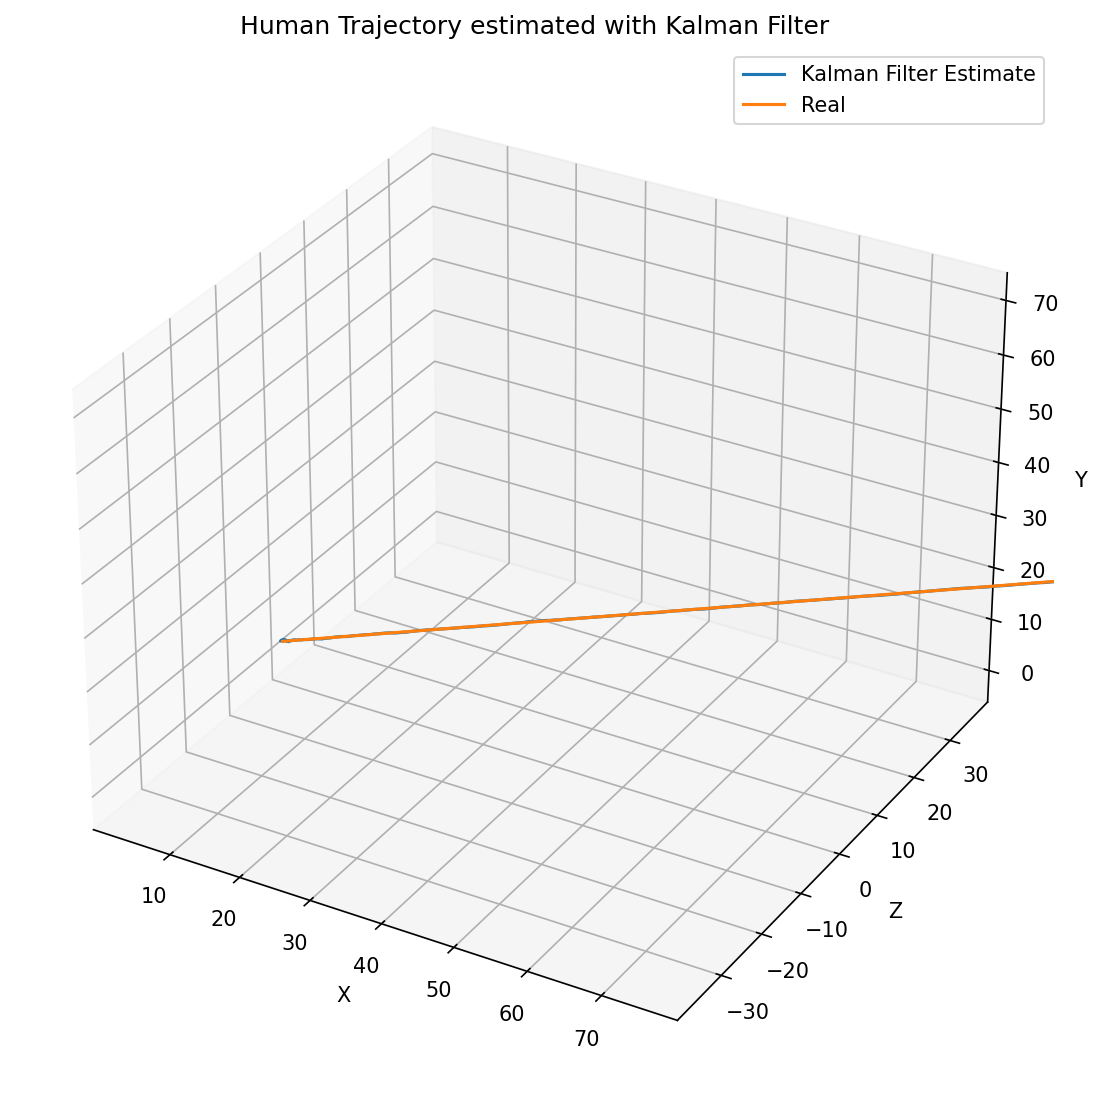
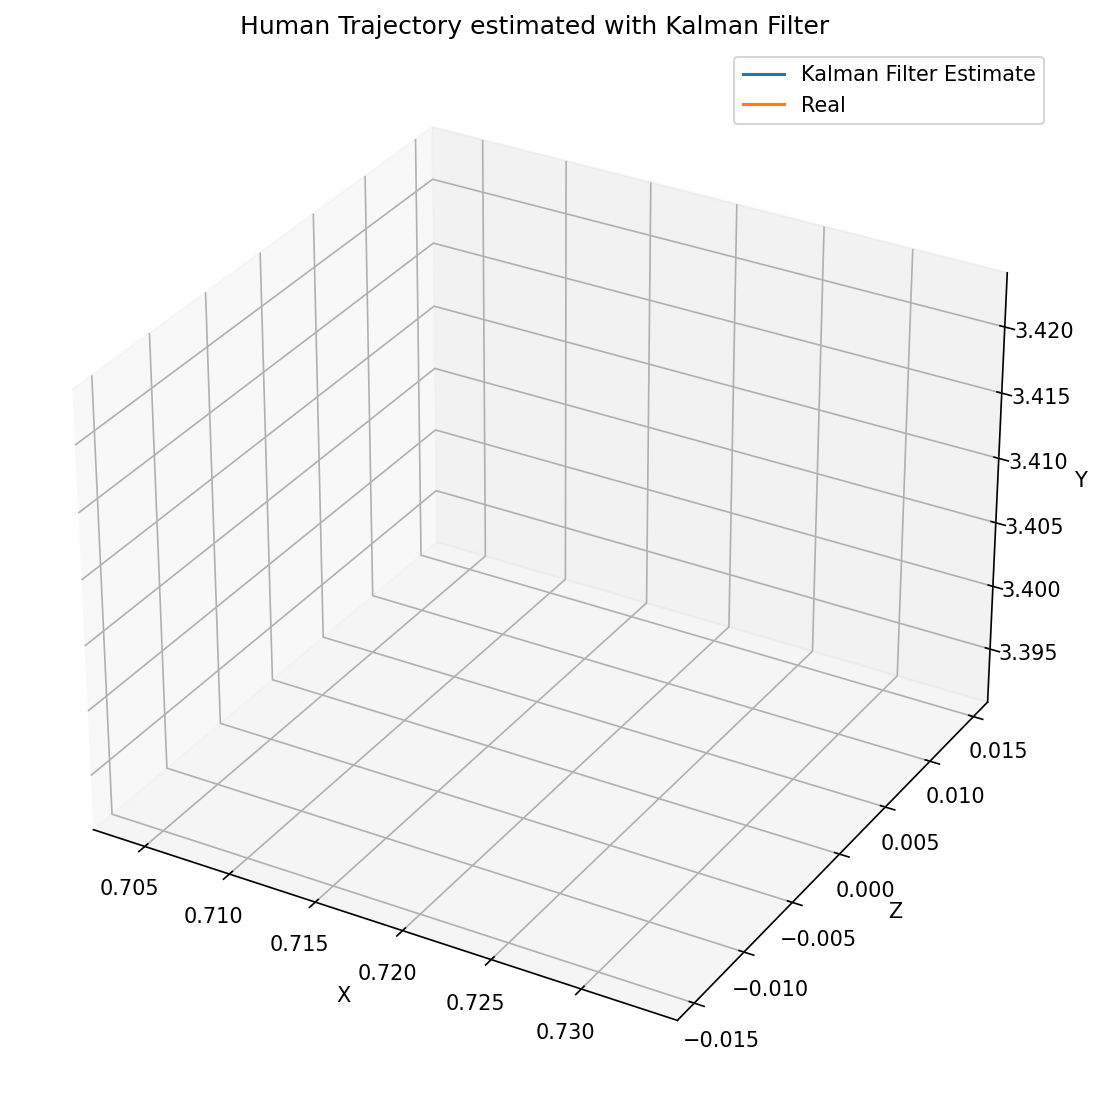
added marker array

diff --git a/test_catkin/src/testrobots/scripts/gauss_kf.py b/test_catkin/src/testrobots/scripts/gauss_kf.py
@@ -3,6 +3,8 @@
 
 #imports 
 import sys
+
+from cv2 import HuMoments
 import rospy
 from array import array
 from cmath import sqrt
@@ -11,6 +13,7 @@ from os import device_encoding
 from numpy import NaN, cov
 # import rospy
 import ros_numpy
+import visualization_msgs
 import matplotlib.pyplot as plt
 from matplotlib.patches import Polygon
 from matplotlib.collections import PatchCollection
@@ -31,7 +34,7 @@ from testrobots.msg import Velocity
 import matplotlib.pyplot as plt
 from mpl_toolkits.mplot3d import Axes3D
 from scipy.stats import norm
-from sympy import Symbol, Matrix
+from sympy import Add, Symbol, Matrix, im
 from sympy.interactive import printing
 from geometry_msgs.msg import Point, PointStamped, Point32
 import struct
@@ -201,9 +204,9 @@ class Detection(object):
             Human_Marker_cube.pose.orientation.y = 1.0
             Human_Marker_cube.pose.orientation.z = 0.0
             Human_Marker_cube.pose.orientation.w = 0.0
-            Human_Marker_cube.scale.x = 0.8
-            Human_Marker_cube.scale.y = 0.8
-            Human_Marker_cube.scale.z = 0.8
+            Human_Marker_cube.scale.x = 0.5
+            Human_Marker_cube.scale.y = 0.5
+            Human_Marker_cube.scale.z = 0.5
             Human_Marker_cube.color.a = 1.0
             Human_Marker_cube.color.r = 1.0
             Human_Marker_cube.color.g = 0.0
@@ -235,48 +238,43 @@ class Detection(object):
             # print("speed in x and z", vx, vz) 
 
 
-                    
-            # #publish velocity
-            # self.pub_vel_x.publish(vx)
-            # self.pub_vel_y.publish(vy)
-            # self.pub_vel_z.publish(vz)
-            
             # kalman filtering 
             xt,yt,zt,Xr,Yr,Zr = kal_fil(meanx,meany, meanz,vx,vy,vz, acc_x,acc_y,acc_z,time_diff)
             
-            for i in range(len(xt)):
-               
-                marker.header.frame_id = "camera_rgb_optical_frame"
-                marker.header.stamp = rospy.Time.now()
-                marker.ns = "basic_shapes"
-                marker.id = i
-                marker.type = 1
-                marker.pose.position.x =  xt[i]
-                marker.pose.position.y = yt[i]
-                marker.pose.position.z = zt[i]
-                marker.pose.orientation.x = 1.0
-                marker.pose.orientation.y = 1.0
-                marker.pose.orientation.z = 0.0
-                marker.pose.orientation.w = 0.0
-                marker.scale.x = 0.8
-                marker.scale.y = 0.8
-                marker.scale.z = 0.8
-                marker.color.a = 1.0
-                marker.color.r = 0.0
-                marker.color.g = 1.0
-                marker.color.b = 0.0
-                
-                Human_prediction.markers.append(marker)
-                                
-            self.human_pred.publish(Human_prediction)
-                
+            if np.mean(x) == NaN or np.mean(z) == NaN:
+                print("no human in view")
+                pass
+            else:
             
-           
-        
-        
- 
-            
-    
+                for i in range(len(xt)):
+                    
+                    marker.header.frame_id = "camera_rgb_optical_frame"
+                    marker.ns = "basic_shapes"
+                    marker.id = i
+                    marker.type = 1
+                    # marker.action = 0
+                    marker.pose.position.x =  xt[i]
+                    marker.pose.position.y = yt[i]
+                    marker.pose.position.z = zt[i]
+                    marker.pose.orientation.x = 1.0
+                    marker.pose.orientation.y = 1.0
+                    marker.pose.orientation.z = 0.0
+                    marker.pose.orientation.w = 0.0
+                    marker.scale.x = 0.5
+                    marker.scale.y = 0.5
+                    marker.scale.z = 0.5
+                    marker.color.a = 1.0
+                    marker.color.r = 0.0
+                    marker.color.g = 1.0
+                    marker.color.b = 0.0
+                    # marker.lifetime = 5
+                    
+                
+                    
+                    Human_prediction.markers.append(marker)
+                    
+                self.human_pred.publish(Human_prediction)
+                 
 
 #****************************************************************************************************************
 

diff --git a/test_catkin/src/testrobots/scripts/kalman_3d.py b/test_catkin/src/testrobots/scripts/kalman_3d.py
@@ -8,7 +8,7 @@ from sympy.interactive import printing
 def kal_fil(mean__x,  mean__y,  mean__z, vel_x,  vel_y, vel_z,accx,accy,accz, time_diff):
     
         
-        P = 100.0*np.eye(9) #covariance matrix
+        P = 200.0*np.eye(9) #covariance matrix 100
 
 
         dt = time_diff #0.2 #time step = 20 hz
@@ -37,7 +37,7 @@ def kal_fil(mean__x,  mean__y,  mean__z, vel_x,  vel_y, vel_z,accx,accy,accz, ti
 
         # print("H SHAPE = ",H.shape) # 3x9 #print(H, H.shape)
 
-        rp = 1.0  #**2  # Noise of Position Measurement
+        rp = 1.0#**2  # Noise of Position Measurement
         R = np.matrix([[rp, 0.0, 0.0],
                     [0.0, rp, 0.0],
                     [0.0, 0.0, rp]])
@@ -69,7 +69,7 @@ def kal_fil(mean__x,  mean__y,  mean__z, vel_x,  vel_y, vel_z,accx,accy,accz, ti
         dts = Symbol('\Delta t')
         Gs = Matrix([dts**3/6, dts**2/2, dts]) #Gs applies effect of an unknown input to state vector
 
-        sj = 0.1 #sigma standard deviation
+        sj = 0.0 #sigma standard deviation 0.1
 
         #Q = Gs * Gs T * sigma^2
 
@@ -110,9 +110,9 @@ def kal_fil(mean__x,  mean__y,  mean__z, vel_x,  vel_y, vel_z,accx,accy,accz, ti
 
         # MEASUREMENTS Synthetically creation of the Position Data for the ball-----------------------------------------
 
-        Hz = 20.0 # Frequency of Vision System approx 5 for lidar
+        Hz = 4.5 # Frequency of Vision System approx 5 for lidar
         dt = time_diff/Hz #1.0/Hz
-        T = 20.0 # s measurement time 1.0s
+        T = 0.4 # s measurement time 1.0s
         m = int(T/dt) # number of measurements
 
         px= mean__x # x Position Start
@@ -152,7 +152,7 @@ def kal_fil(mean__x,  mean__y,  mean__z, vel_x,  vel_y, vel_z,accx,accy,accz, ti
             
         #ADD NOISE TO REAL POSITION-----------------------------------------------------------------------------
 
-        sp= 0.1 # Sigma for position noise
+        sp= 0.0 # Sigma for position noise 0.1
 
         Xm = Xr + sp * (np.random.randn(m))
         Ym = Yr + sp * (np.random.randn(m))
